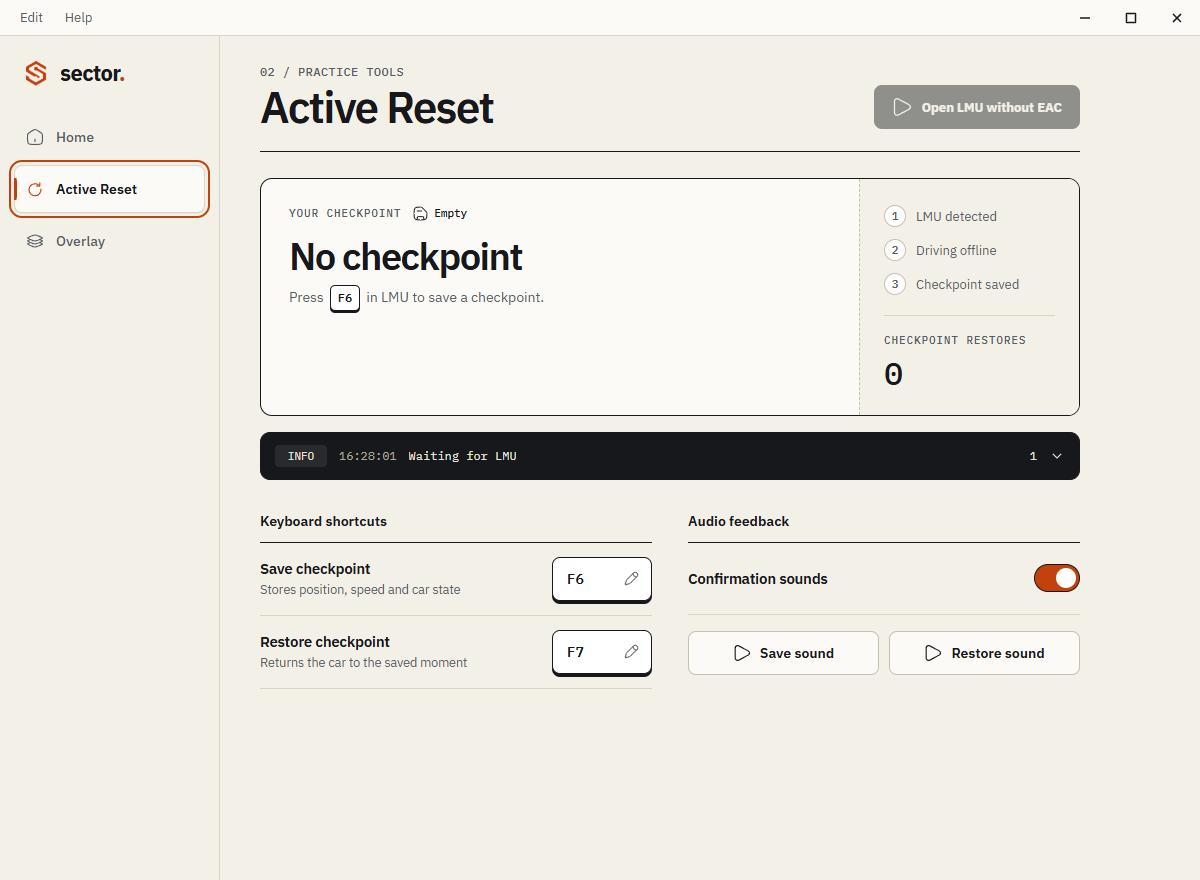
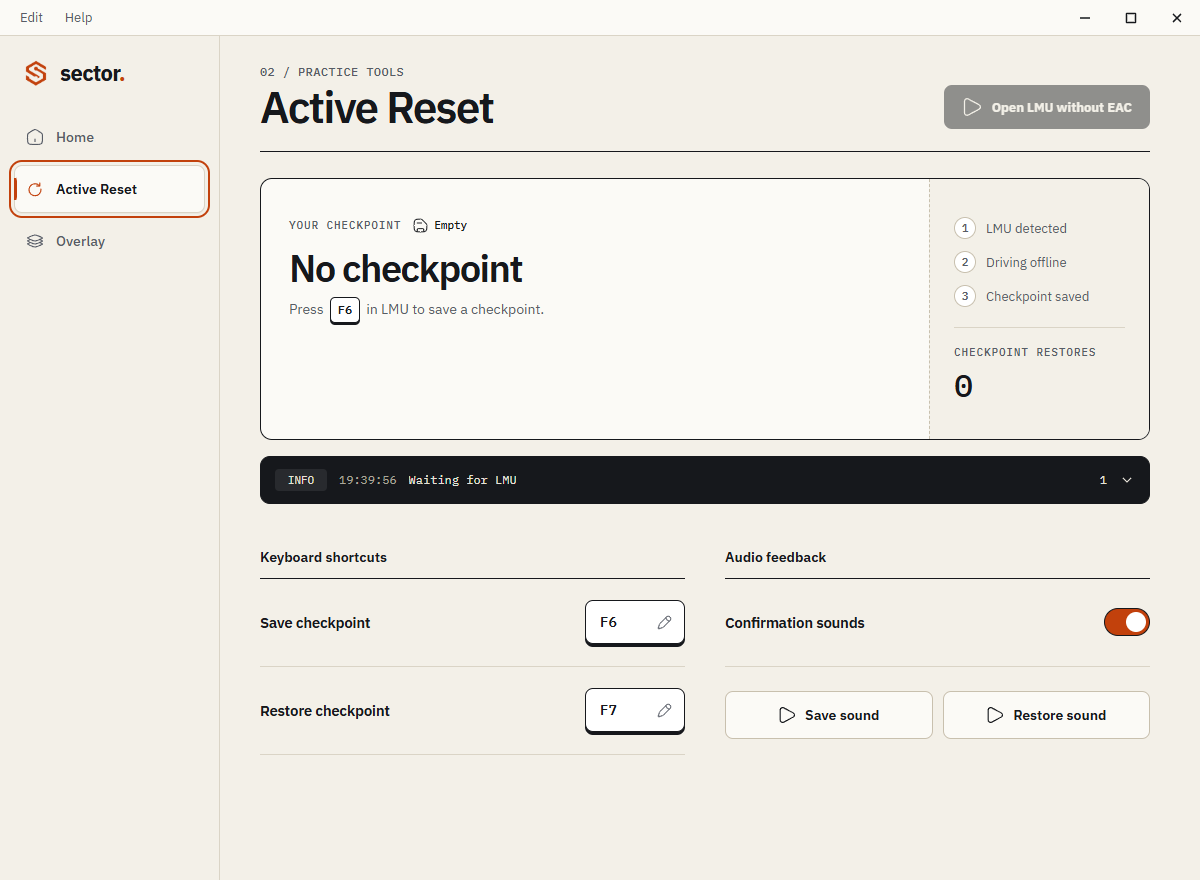
Expand workspace and add installation settings for 0.2.22

diff --git a/src/ui/electron/renderer/preferences.jsx b/src/ui/electron/renderer/preferences.jsx
@@ -1,7 +1,78 @@
-import React from "react";
+import React, { useEffect, useState } from "react";
 import { Icon } from "@iconify/react";
 import play from "@iconify-icons/solar/play-linear";
+import folderIcon from "@iconify-icons/solar/folder-open-linear";
 import { DisplaySettings } from "./overlays/display-settings.jsx";
+
+function InstallationSettings() {
+  const [folder, setFolder] = useState("");
+  const [busy, setBusy] = useState(true);
+  const [error, setError] = useState("");
+  useEffect(() => {
+    let live = true;
+    window.sector
+      .installation()
+      .then((value) => {
+        if (live) setFolder(value.folder);
+      })
+      .catch(() => {
+        if (live) setError("Could not read the LMU folder.");
+      })
+      .finally(() => {
+        if (live) setBusy(false);
+      });
+    return () => {
+      live = false;
+    };
+  }, []);
+  async function changeFolder() {
+    setBusy(true);
+    setError("");
+    try {
+      const selected = await window.sector.browseInstallation();
+      if (selected.canceled) return;
+      if (!selected.ok) throw new Error(selected.error);
+      const saved = await window.sector.updateInstallation(selected.folder);
+      if (!saved.ok) throw new Error(saved.error);
+      setFolder(saved.folder);
+    } catch (err) {
+      setError(err.message || "Could not change the LMU folder.");
+    } finally {
+      setBusy(false);
+    }
+  }
+  return (
+    <section
+      className="installation-settings"
+      aria-labelledby="installation-heading"
+    >
+      <h3 className="preference-category" id="installation-heading">
+        Le Mans Ultimate
+      </h3>
+      <div className="installation-setting-row">
+        <div className="setting-label">
+          <h3>Game folder</h3>
+          <p className="settings-folder" title={folder} role="status">
+            {folder || "No folder selected"}
+          </p>
+        </div>
+        <button
+          className="secondary change-folder"
+          disabled={busy}
+          onClick={changeFolder}
+        >
+          <Icon icon={folderIcon} aria-hidden="true" />
+          Change folder
+        </button>
+      </div>
+      {error && (
+        <p className="modal-error" role="alert">
+          {error}
+        </p>
+      )}
+    </section>
+  );
+}
 
 export function Preferences({ settings, pending, updateSettings }) {
   return (
@@ -29,6 +100,7 @@ export function Preferences({ settings, pending, updateSettings }) {
         </button>
       </div>
       <DisplaySettings />
+      <InstallationSettings />
     </div>
   );
 }

diff --git a/src/ui/electron/renderer/main.jsx b/src/ui/electron/renderer/main.jsx
@@ -26,6 +26,7 @@ import history from "@iconify-icons/solar/history-linear";
 import home from "@iconify-icons/solar/home-2-linear";
 import help from "@iconify-icons/solar/question-circle-linear";
 import pen from "@iconify-icons/solar/pen-linear";
+import bug from "@iconify-icons/solar/bug-linear";
 import "@fontsource/ibm-plex-sans/latin-400.css";
 import "@fontsource/ibm-plex-sans/latin-500.css";
 import "@fontsource/ibm-plex-sans/latin-600.css";
@@ -317,6 +318,19 @@ function App() {
                   >
                     <Glyph icon={save} /> Export diagnostics
                   </Menu.Item>
+                  <Menu.Item
+                    className="help-menu-item"
+                    onClick={async () => {
+                      try {
+                        const result = await api.reportBug();
+                        if (!result.ok) throw new Error(result.error);
+                      } catch (err) {
+                        setError(err.message || "Could not open GitHub.");
+                      }
+                    }}
+                  >
+                    <Glyph icon={bug} /> Report a bug
+                  </Menu.Item>
                 </Menu.Popup>
               </Menu.Positioner>
             </Menu.Portal>
@@ -394,7 +408,7 @@ function App() {
               onNavigate={setTab}
             />
           </Tabs.Panel>
-          <Tabs.Panel value="reset" className="page">
+          <Tabs.Panel value="reset" className="page reset-page">
             <div className="page-heading reset-heading">
               <div>
                 <div className="page-kicker">02 / Practice tools</div>
@@ -495,7 +509,6 @@ function App() {
                   </span>
                   <div className="setting-label">
                     <h3>Save checkpoint</h3>
-                    <p>Stores position, speed and car state</p>
                   </div>
                   <button
                     className="key-button"
@@ -513,7 +526,6 @@ function App() {
                   </span>
                   <div className="setting-label">
                     <h3>Restore checkpoint</h3>
-                    <p>Returns the car to the saved moment</p>
                   </div>
                   <button
                     className="key-button"

diff --git a/src/ui/electron/renderer/style.css b/src/ui/electron/renderer/style.css
@@ -232,6 +232,30 @@ input {
   padding: 28px 40px 48px;
   animation: page-enter 180ms var(--ease-out);
 }
+.reset-page,
+.overlay-page {
+  max-width: 1000px;
+}
+@media (min-width: 851px) and (min-height: 740px) {
+  .reset-page .checkpoint-main,
+  .reset-page .checkpoint-side {
+    padding-top: 38px;
+    padding-bottom: 38px;
+  }
+  .reset-page .settings-grid {
+    margin-top: 44px;
+    gap: 40px;
+  }
+  .reset-page .setting-row {
+    min-height: 88px;
+  }
+  .reset-page .sound-previews {
+    margin-top: 24px;
+  }
+  .reset-page .sound-previews button {
+    min-height: 48px;
+  }
+}
 @keyframes page-enter {
   from {
     opacity: 0;
@@ -727,6 +751,52 @@ kbd {
 }
 .preferences {
   margin-top: 20px;
+}
+.settings-modal {
+  width: min(600px, 100%);
+  padding: 32px;
+}
+.installation-settings {
+  margin-top: 28px;
+}
+.installation-setting-row {
+  display: flex;
+  align-items: center;
+  gap: 20px;
+  padding: 16px 0 4px;
+}
+.installation-setting-row .setting-label {
+  flex: 1;
+  min-width: 0;
+}
+.installation-setting-row .settings-folder {
+  overflow-wrap: anywhere;
+  margin: 6px 0 0;
+  font:
+    400 12px/1.6 "IBM Plex Mono",
+    monospace;
+  color: var(--muted);
+}
+.change-folder {
+  flex: none;
+  display: inline-flex;
+  align-items: center;
+  justify-content: center;
+  gap: 8px;
+}
+.change-folder svg {
+  width: 18px;
+  height: 18px;
+}
+@media (max-width: 600px) {
+  .settings-modal {
+    padding: 24px;
+  }
+  .installation-setting-row {
+    flex-direction: column;
+    align-items: stretch;
+    gap: 12px;
+  }
 }
 .audio-section h3 {
   font-size: 14.5px;

diff --git a/src/ui/electron/renderer/overlays/editor.css b/src/ui/electron/renderer/overlays/editor.css
@@ -89,10 +89,10 @@
   gap: 8px;
   flex: 1;
   min-width: 0;
-  min-height: 44px;
+  min-height: 50px;
   text-align: left;
   padding: 10px 14px;
-  font-size: 13.5px;
+  font-size: 14px;
   font-weight: 500;
   background: transparent;
   color: var(--muted);
@@ -116,7 +116,7 @@
   display: flex;
   align-items: center;
   justify-content: center;
-  min-height: 240px;
+  min-height: 280px;
   padding: 38px 16px 24px;
   border: 1px solid var(--ink);
   border-radius: 12px;
@@ -140,8 +140,8 @@
 .overlay-controls {
   display: grid;
   grid-template-columns: repeat(3, minmax(0, 1fr));
-  gap: 14px;
-  margin-top: 18px;
+  gap: 20px 16px;
+  margin-top: 24px;
 }
 .overlay-field {
   display: flex;
@@ -214,8 +214,8 @@
 .overlay-parts {
   display: grid;
   grid-template-columns: repeat(3, minmax(0, 1fr));
-  gap: 8px;
-  margin-top: 14px;
+  gap: 10px;
+  margin-top: 18px;
 }
 .overlay-parts:empty {
   display: none;
@@ -225,7 +225,7 @@
   align-items: center;
   gap: 8px;
   padding: 10px 12px;
-  min-height: 44px;
+  min-height: 48px;
   border: 1px solid var(--line-strong);
   border-radius: 8px;
   background: var(--surface);
@@ -298,6 +298,9 @@
   }
 }
 @media (max-width: 850px) {
+  .widget-stage {
+    min-height: 240px;
+  }
   .overlay-workspace {
     grid-template-columns: 1fr;
   }

diff --git a/README.md b/README.md
@@ -66,6 +66,10 @@ its **Manage → Browse local files** option and use that folder in Sector.
 You can then choose a short guided tour. Open it again at any time through
 **Help → Guide** in Sector's top menu.
 
+To move Sector to another LMU installation, open **Edit → Settings → Le Mans
+Ultimate** and select **Change folder**. Choose the folder containing
+`Le Mans Ultimate.exe`. Sector validates and remembers the selection.
+
 The **Home** tab brings together your session, checkpoint and overlay layout.
 In **Active Reset**, choose **Open LMU without EAC** to open the game from the
 installation folder you confirmed. If EAC is detected, Sector shows a warning
@@ -239,8 +243,11 @@ Keep the files from each package together; do not copy only the new EXE over an
 older installation. If Active Reset asks you to restart LMU, restart it before
 making a new checkpoint.
 
-### In development: 0.2.21
+### In development: 0.2.22
 
+- More space for Active Reset and the overlay editor.
+- Change the LMU installation folder in Settings.
+- Open a GitHub bug report through **Help → Report a bug**.
 - Light interface with orange accents, updated typography and clearer menus.
 - Live opacity sliders and steering-wheel marker color choices.
 - Genesis manufacturer logo support.
@@ -260,6 +267,8 @@ For a bug report, include your Sector version, LMU version, car and track, the
 exact message and the steps that reproduce it. For a display issue, include a
 screenshot and your monitor setup. Report problems through
 [GitHub Issues](https://github.com/sector-lmu/Sector/issues).
+**Help → Report a bug** opens a new issue in your browser; you review and submit
+the report yourself.
 
 Reproduce the problem, then open **Help → Export diagnostics** and
 choose **Save diagnostic file**. Send the resulting JSON file with your report.

diff --git a/docs/TEST_RESULTS.md b/docs/TEST_RESULTS.md
@@ -3,6 +3,18 @@
 This page separates automated checks from live-game observations. Historical
 counts and build-specific experiments are preserved in the [research archive](archive/README.md).
 
+## Layout and installation settings: 0.2.22
+
+- All 68 desktop unit tests passed.
+- Electron UI, overlay and Home tests passed, including compact layouts and the
+  Help menu's fixed GitHub issue URL. The browser call was intercepted in tests;
+  no issue was submitted.
+- Installation settings were tested with canceled and invalid folder selections,
+  a valid replacement folder, persistence across restart and preserved onboarding
+  completion. The isolated fixtures never launch LMU.
+- Active Reset, Overlay and the expanded Settings dialog were visually reviewed.
+- The packaged Sector 0.2.22 executable passed the bundled runtime and UI smoke test.
+
 ## Design B refinements: 0.2.21
 
 - All 68 desktop unit tests passed, including Genesis and GMR-001 name matching.

diff --git a/docs/README.md b/docs/README.md
@@ -11,6 +11,9 @@ select the folder containing `Le Mans Ultimate.exe` yourself. You can find it
 through Steam: open LMU's **Manage → Browse local files** option in your Library.
 Use **Choose folder** to open the Windows folder picker. A valid installation
 must be confirmed before continuing; the setup popup cannot be dismissed.
+You can change it later through **Edit → Settings → Le Mans Ultimate →
+Change folder**. Invalid folders and canceled selections leave the current
+installation unchanged.
 
 **Active Reset requires LMU's Offline mode.** To prepare the game:
 
